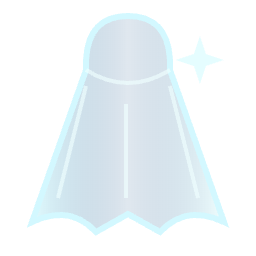
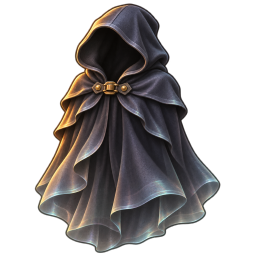
Alinha retrato da capa ao catálogo pintado do Apoio Técnico

diff --git a/apps/sessao/dev/capa-portrait-prompt.md b/apps/sessao/dev/capa-portrait-prompt.md
@@ -1,0 +1,20 @@
+# Portrait da capa de invisibilidade
+
+Ferramenta: ImageGen integrada, com fundo transparente. A mudança é apenas na
+ilustração da loja/inventário; funcionamento, preço, slot e cooldown permanecem.
+
+Referências de acabamento (masters em `dev/hires-world/masters/`):
+`retrato-raio-x.webp`, `retrato-visao-noturna.webp` e `retrato-colete.webp`.
+Foram usadas como referência de pintura, contorno, volume, material e luz,
+sem reaproveitar a forma dos equipamentos.
+
+Master: `dev/hires-world/masters/capa-invisibilidade.webp`, 1254 × 1254.
+Entrega base: `public/assets/capa-invisibilidade.webp`, 256 × 256.
+Variantes 128/256/512 registradas em `src/world-assets.json`, exportadas pelo
+pipeline existente: `uv run --with pillow --with numpy --with scipy python dev/hires-world/build.py capa-invisibilidade`.
+
+O SVG plano anterior foi removido.
+
+## Prompt final
+
+> Use case: stylized-concept. Asset type: equipment inventory/shop portrait for the 2D satirical game Presidente da Sessão. Primary request: replace a flat icon with a richly PAINTED physical invisibility cloak matching the supplied existing equipment catalog. Input image 1 (scanner), image 2 (goggles), image 3 (armored vest) are visual STYLE references only: match their dark illustrated contours, directional warm light, modeled dimensional volumes, subtle material texture, sharp readable silhouette and finish. Subject: ONE empty hooded cloak as a tangible wearable item, shown in a slight three-quarter product view, compact and centered on a square canvas. Hood visibly hollow with deep dark interior, shoulders draping into a broad cloth cape, a small tasteful aged-brass fastening clasp at the neck, layered irregular hem and convincing heavy flowing cloth folds. No person, face, body, mannequin, display stand or hanger. Main material: charcoal/slate blue woven cloth with cool silver-cyan iridescent edge highlights, warm rim light on upper folds; the lower hem has a restrained see-through shimmer suggesting invisibility while the bulk remains readable physical fabric with real thickness and shadow. Mature illustrated game item, not a wizard costume photo, not a triangular line icon or flat geometric SVG, not an emoji or minimal logo. Emphasize painted material and shaded folds with a similar level of detail to the vest reference. Entire cloak including hood and hem inside the frame, 75-80 percent canvas occupancy, generous transparent margins. Genuinely transparent RGBA background, no floor, no environmental shadows, no backdrop, card, badge, star symbol, text, lettering, price, sparkles or extra objects. Output square 1024x1024.
